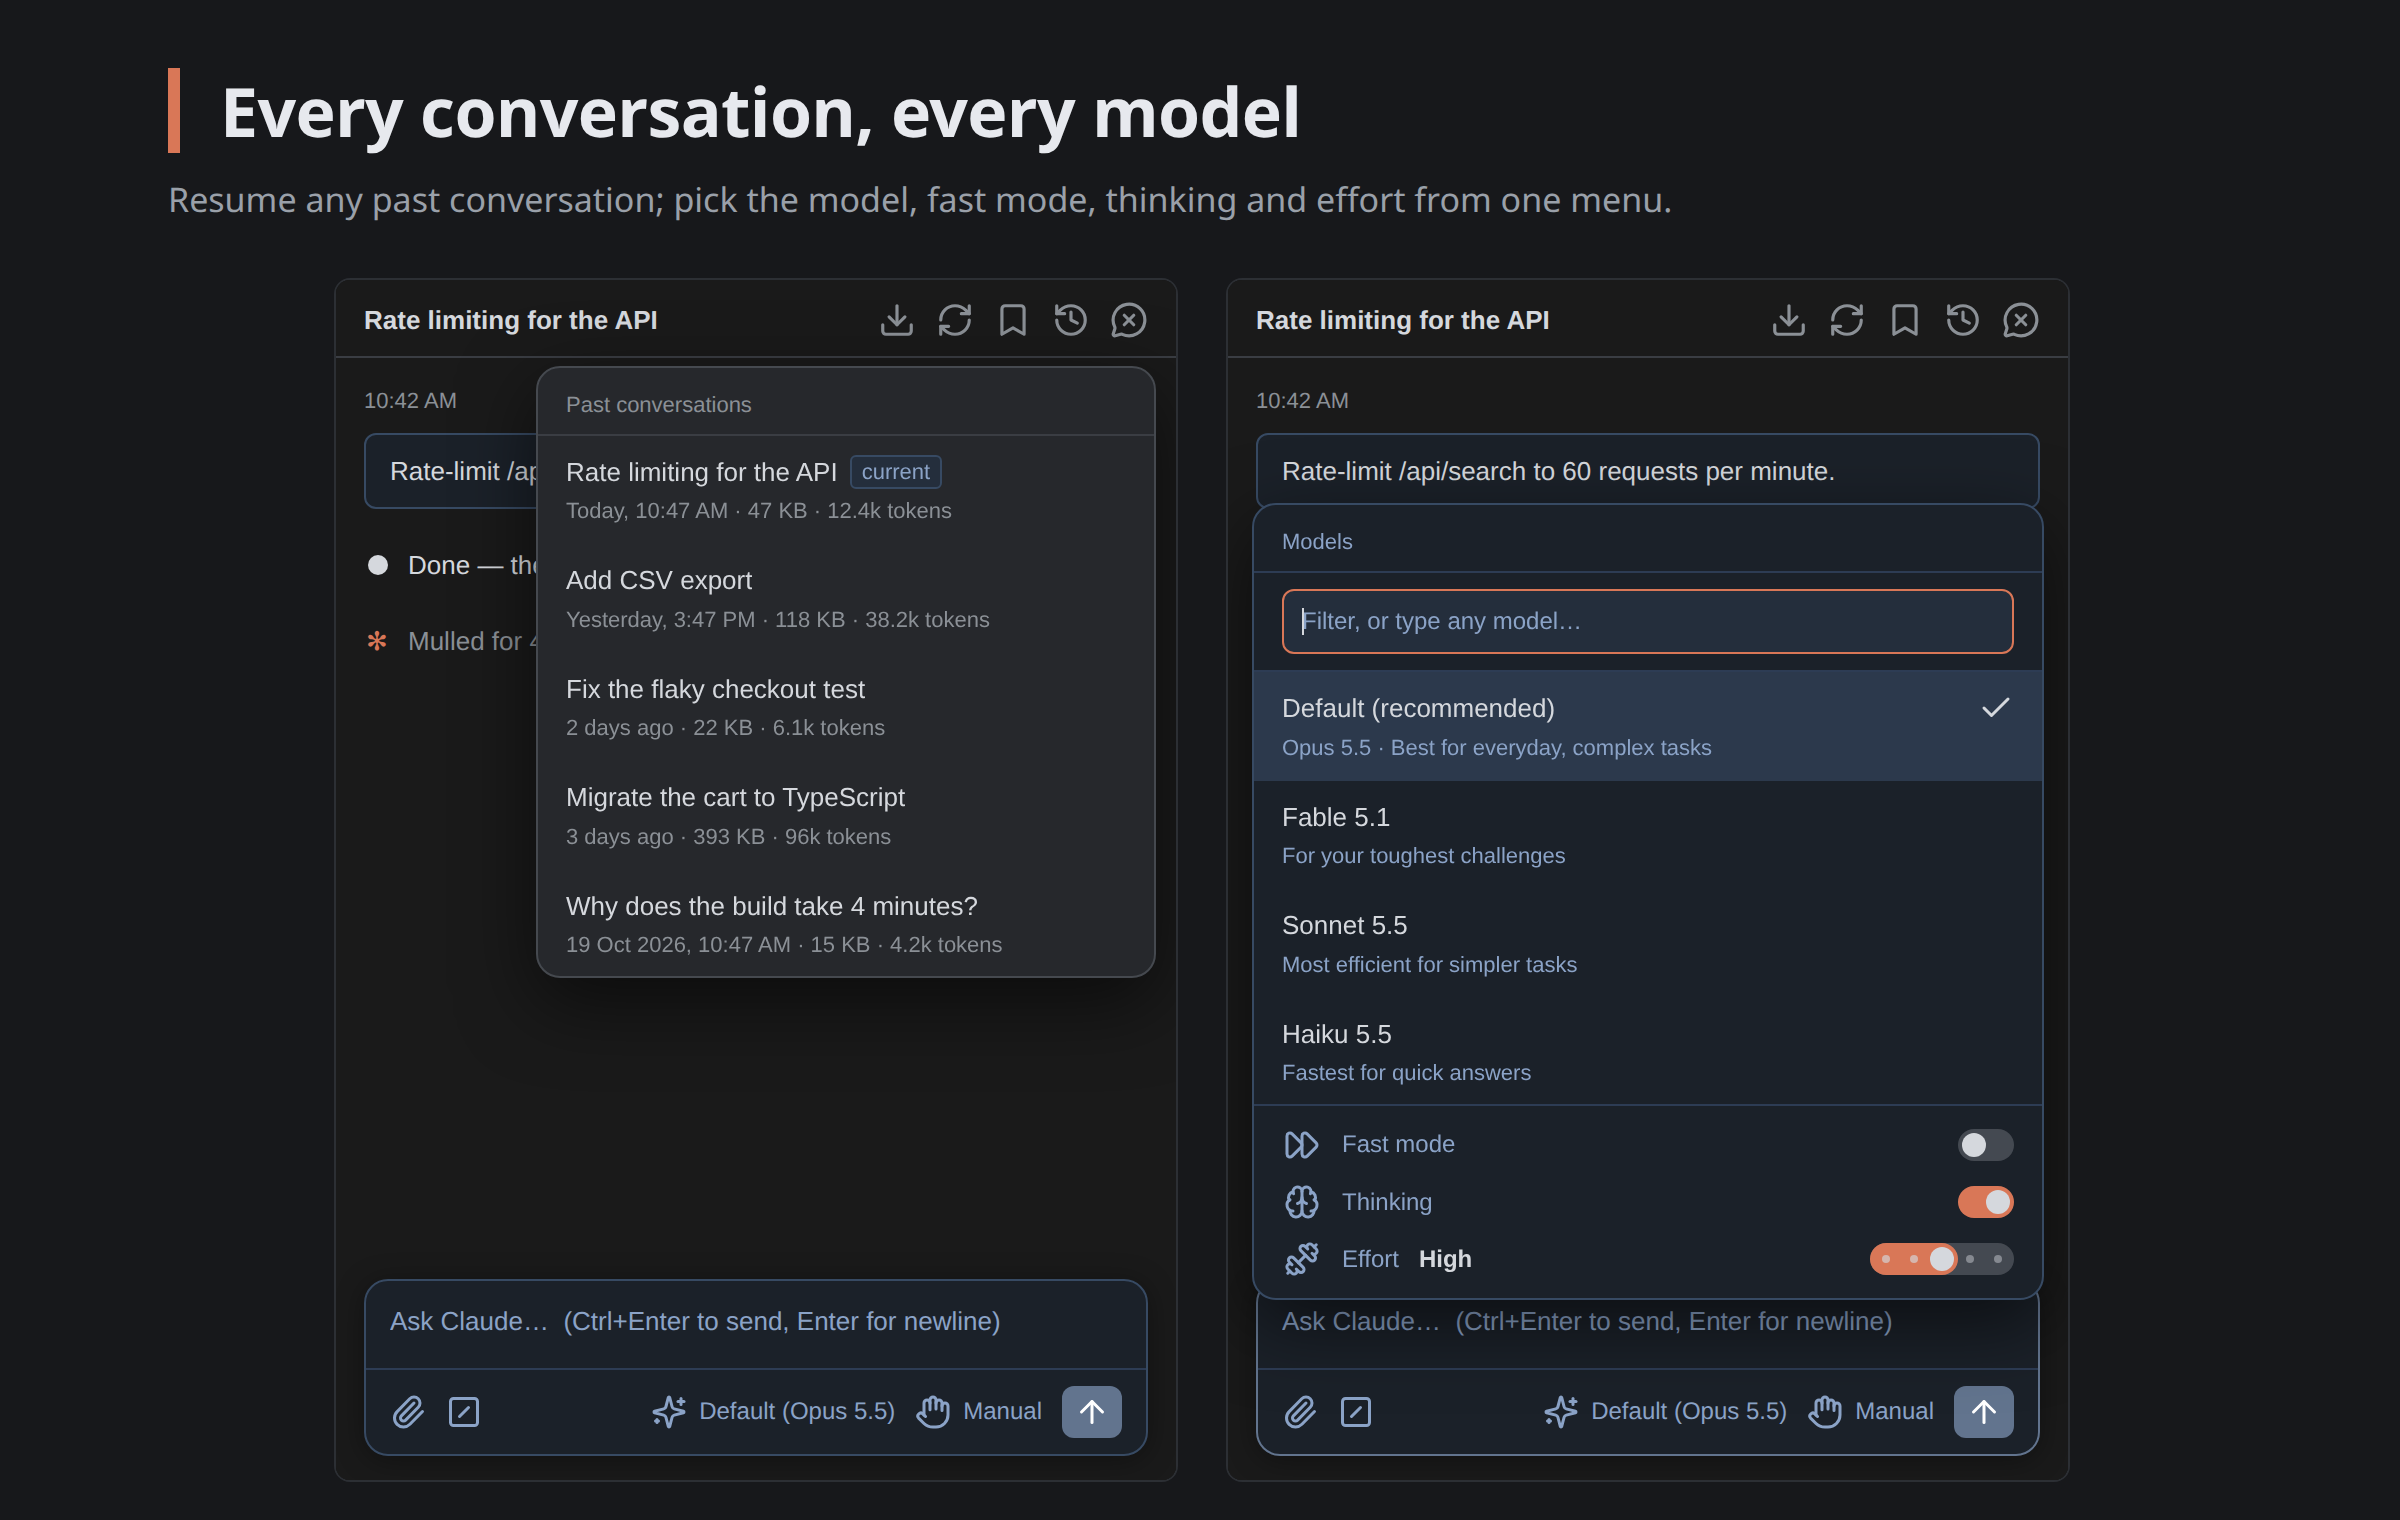
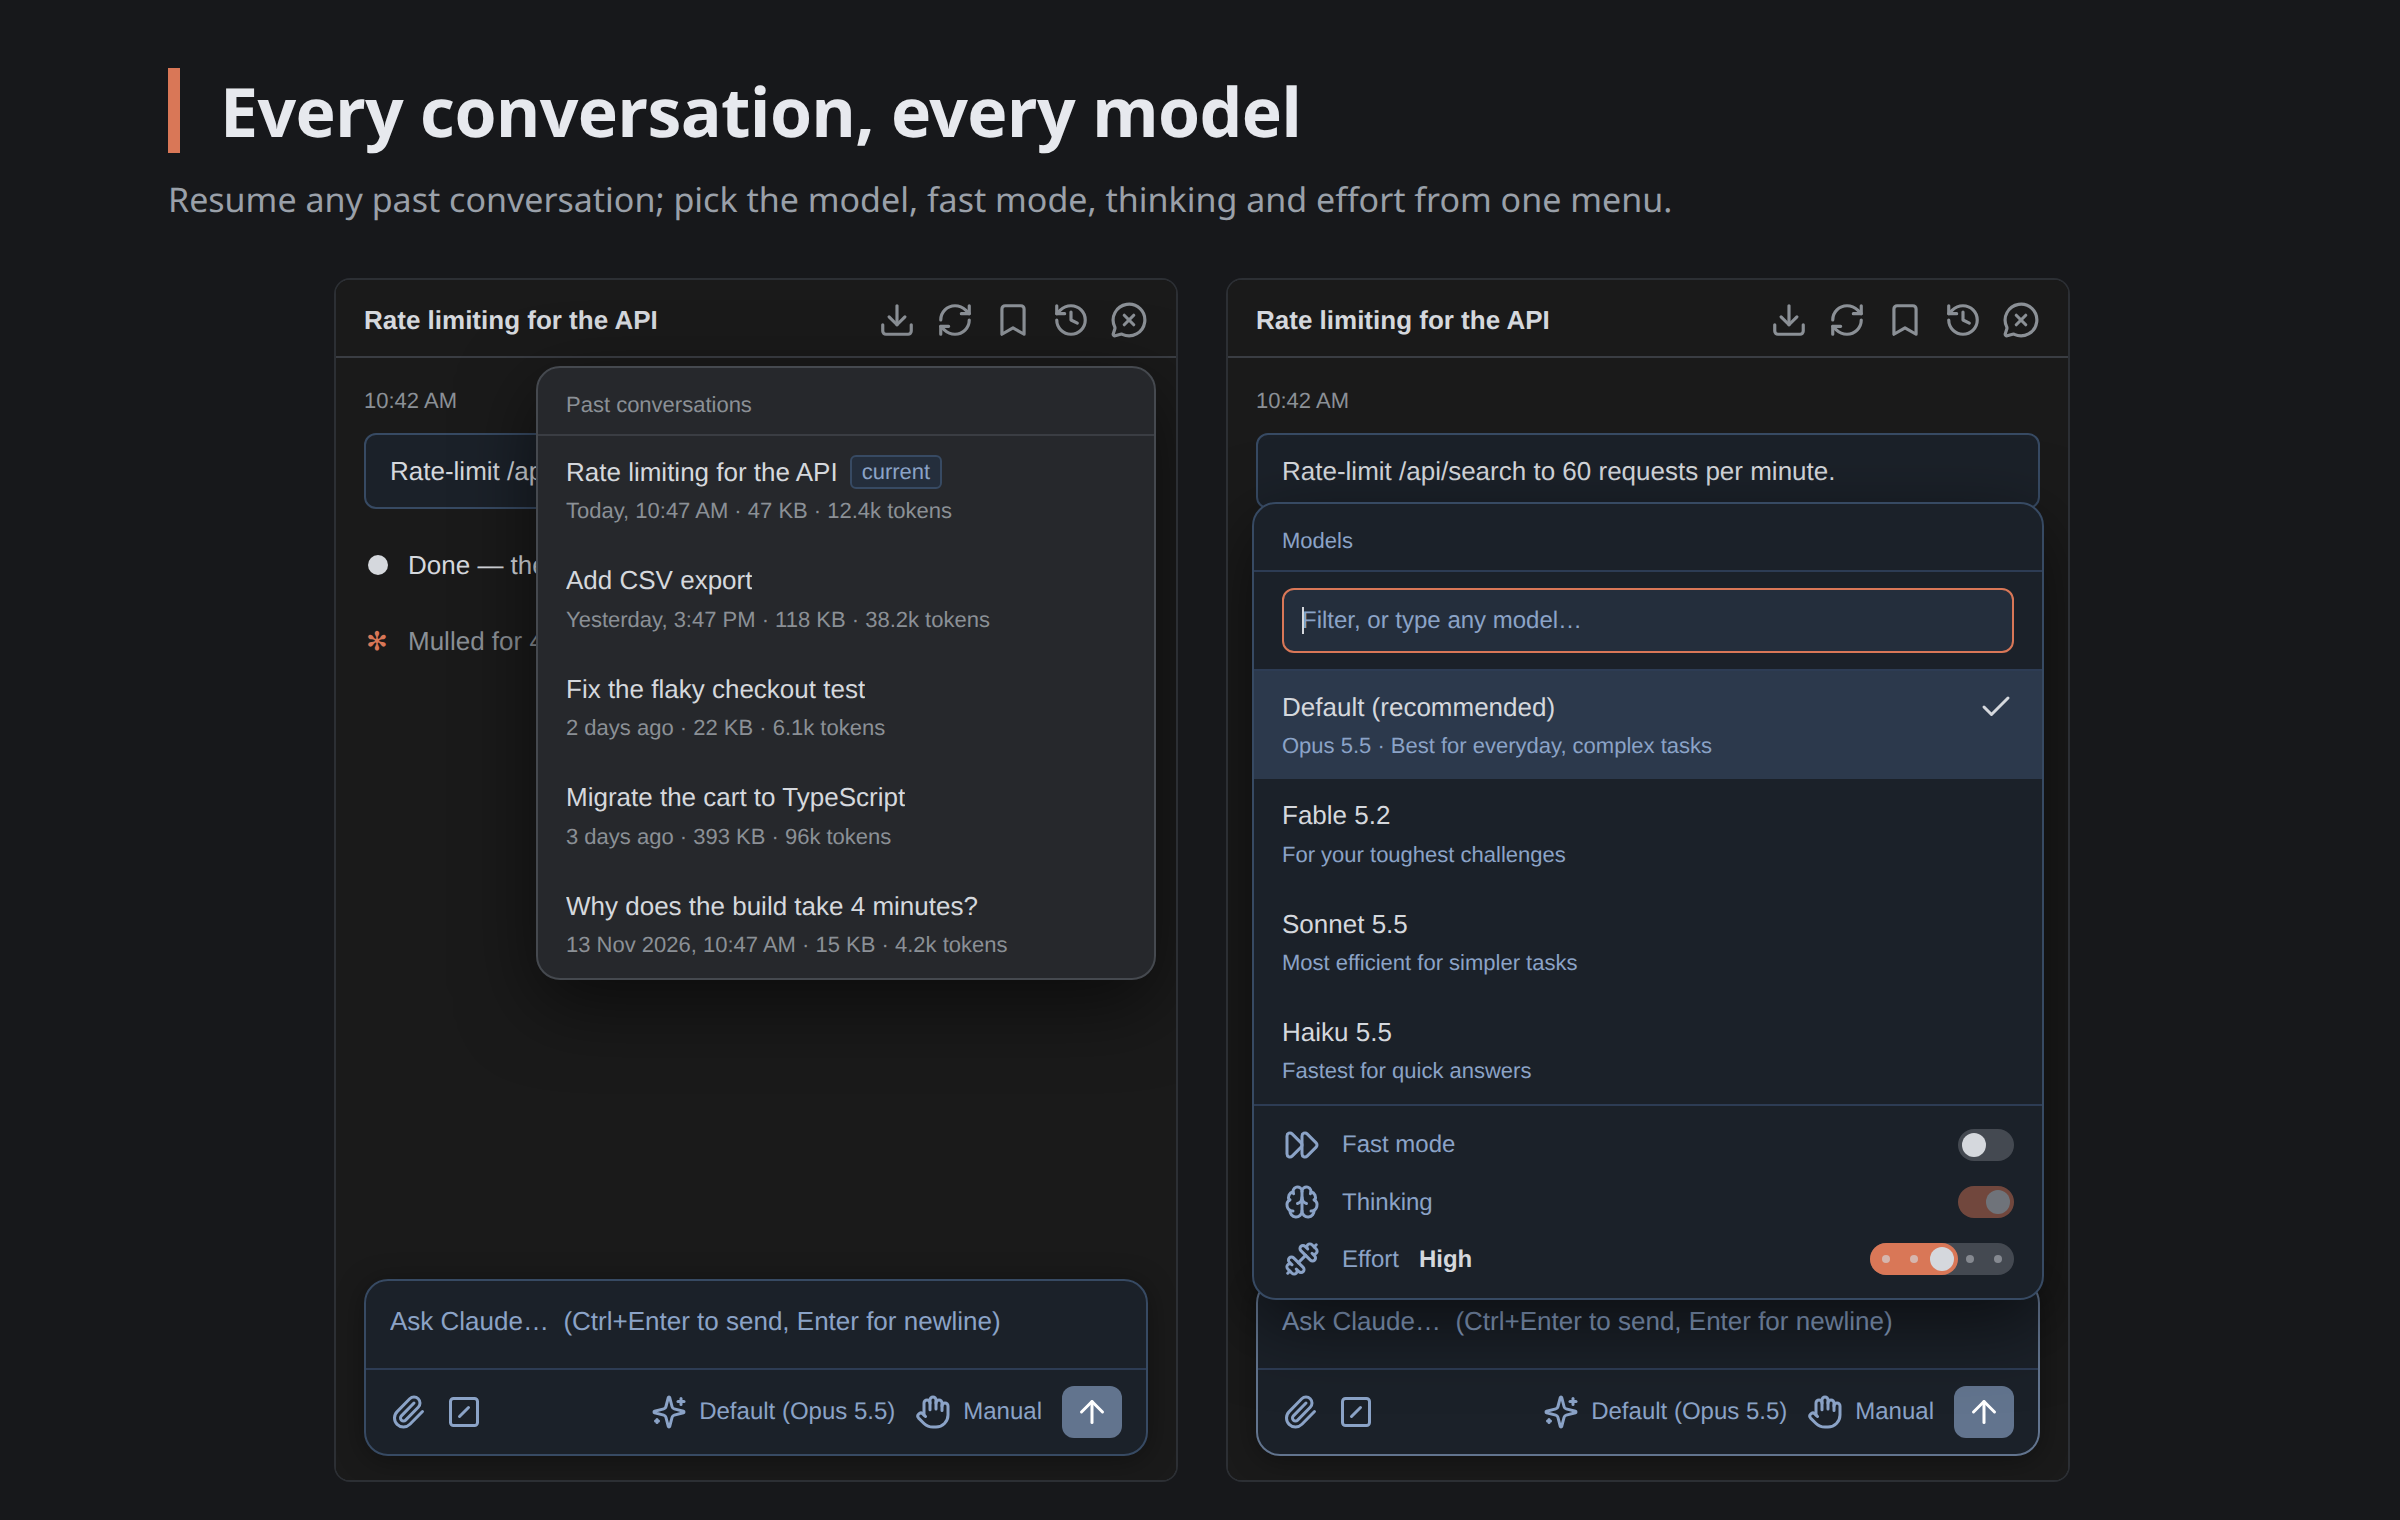
Marketplace screenshots for 0.18.0: all eight regenerated from the current renderer and two added — 09 pinned commands (chips above the composer, the / menu's filled pin toggles) with the prompt suggestion in the message box, 10 live output of a running command beside KaTeX math. tools/marketplace_s

diff --git a/tools/marketplace_shots.py b/tools/marketplace_shots.py
@@ -94,12 +94,13 @@ def panel_html() -> str:
 
 COMMON = r"""
 window.onClaudeEvent(JSON.stringify({type:'__project', root:'/home/you/shop'}));
-// the roster as CLI 2.1.293 sends it (fixture 97 rows; Default resolved as fixture 67 measured it)
+// four of the roster's rows as CLI 2.1.330 sends them (taped 2026-11-22; the Opus 5.5 row and
+// the nine pinned older versions are left out so the menu fits the panel). supportsThinkingOff:false locks the Thinking switch (9.10)
 window.onClaudeEvent(JSON.stringify({type:'__models', selected:'default', items:[
-  {value:'default', resolvedModel:'claude-opus-5-5', displayName:'Default (recommended)', description:'Opus 5.5 · Best for everyday, complex tasks', supportsEffort:true, supportsFastMode:true},
-  {value:'fable', resolvedModel:'claude-fable-5-1', displayName:'Fable 5.1', description:'For your toughest challenges', supportsEffort:true},
-  {value:'sonnet', resolvedModel:'claude-sonnet-5-5', displayName:'Sonnet 5.5', description:'Most efficient for simpler tasks', supportsEffort:true},
-  {value:'haiku', resolvedModel:'claude-haiku-5-5', displayName:'Haiku 5.5', description:'Fastest for quick answers'}]}));
+  {value:'default', resolvedModel:'claude-opus-5-5', displayName:'Default (recommended)', description:'Opus 5.5 · Best for everyday, complex tasks', supportsEffort:true, supportsFastMode:true, supportsThinkingOff:false},
+  {value:'fable', resolvedModel:'claude-fable-5-2', displayName:'Fable 5.2', description:'For your toughest challenges', supportsEffort:true, supportsFastMode:true, supportsThinkingOff:false},
+  {value:'sonnet', resolvedModel:'claude-sonnet-5-5', displayName:'Sonnet 5.5', description:'Most efficient for simpler tasks', supportsEffort:true, supportsThinkingOff:false},
+  {value:'haiku', resolvedModel:'claude-haiku-5-5', displayName:'Haiku 5.5', description:'Fastest for quick answers', supportsEffort:true, supportsThinkingOff:false}]}));
 window.onClaudeEvent(JSON.stringify({type:'__mode', mode:'default'}));
 window.onClaudeEvent(JSON.stringify({type:'__commands', items:[
   {name:'compact', description:'Free up context by summarizing the conversation so far', argumentHint:'<optional custom summarization instructions>'},
@@ -339,6 +340,59 @@ user('Run the full e2e suite.');
 working('Testing…', '1m 12s', '96');
 """
 
+# 7.13 pinned commands + 1.32 prompt suggestion. The scene's own roster: short descriptions, since a
+# chip is labelled with the command's description.
+S9_COMMON = COMMON + r"""
+window.onClaudeEvent(JSON.stringify({type:'__commands', items:[
+  {name:'compact', description:'Free up context by summarizing the conversation so far', argumentHint:'<optional custom summarization instructions>'},
+  {name:'code-review', description:'Review the current diff for bugs and cleanups', argumentHint:'[target]', aliases:['review']},
+  {name:'commit', description:'Commit it (user)'},
+  {name:'pre-tag', description:'Lint, test, diff-check (user)'},
+  {name:'deploy', description:'Deploy to… (project)', argumentHint:'<env>'},
+  {name:'standup', description:'Summarise what changed since yesterday (user)'}]}));
+window.onClaudeEvent(JSON.stringify({type:'__title', text:'Release 2.4'}));
+user('Bump the version and update the changelog.');
+tool('Edit', '/home/you/shop/package.json', true);
+tool('Edit', '/home/you/shop/CHANGELOG.md', true);
+md('Version is **2.4.0** and the changelog lists the three fixes. Nothing is committed yet.');
+done(17000, 420);
+idle();
+window.onClaudeEvent(JSON.stringify({type:'__cmdPins', pins:['commit','pre-tag','deploy']}));
+"""
+
+S9_LEFT = S9_COMMON + r"""
+window.onClaudeEvent(JSON.stringify({type:'prompt_suggestion', suggestion:'commit this and tag v2.4.0', uuid:'ps1', session_id:'s1'}));
+"""
+
+S9_RIGHT = S9_COMMON + r"""
+input.value = '/';
+tg('slashMenu');
+"""
+
+# 1.33 live output of a running command, through the real road: task_started arms the poll, the
+# __taskOutput answer paints the row.
+S10_LEFT = COMMON + r"""
+window.onClaudeEvent(JSON.stringify({type:'__title', text:'Staging migration'}));
+user('Run the pending migrations on staging.');
+{ const tb = track(toolLine('Bash')); tb.classList.add('run');
+  tb.querySelector('.t-desc').textContent = 'Migrate the staging database';
+  const io = ioBox([['IN', 'npm run migrate -- --env staging']]); tb.after(io);
+  toolsById['tu-mig'] = { el: tb, name: 'Bash', io: io };
+  startLiveOut({ task_id: 'tk-mig', tool_use_id: 'tu-mig', is_backgrounded: false });
+  window.onClaudeEvent(JSON.stringify({type:'__taskOutput', id:'tk-mig', truncated:false, total_bytes:0, output:
+    'Using environment: staging\n[1/6] add_orders_index ... done (0.8s)\n[2/6] split_customer_name ... done (2.1s)\n[3/6] backfill_tax_region ... 41%\n[3/6] backfill_tax_region ... 78%\n[3/6] backfill_tax_region ... done (9.4s)\n[4/6] drop_legacy_carts ... done (0.3s)\n[5/6] add_export_jobs ...'})); }
+working('Migrating…', '24s', '118'); setContext(41000);
+"""
+
+# 1.34 math, drawn by the vendored KaTeX.
+S10_RIGHT = COMMON + r"""
+window.onClaudeEvent(JSON.stringify({type:'__title', text:'Retry policy'}));
+user('How long can the retries take in total?');
+md('Retry $n$ waits $d_n = \\min(c,\\ b \\cdot 2^{n})$, so without the cap $k$ retries add up to\n\n$$\\sum_{n=0}^{k-1} b \\cdot 2^{n} = b\\,(2^{k} - 1)$$\n\nWith $b = 0.5$ s and $k = 5$ that is **15.5 s** — under the 30 s gateway timeout, so the cap $c$ never applies.');
+done(8000, 190);
+idle(); setContext(23000);
+"""
+
 SCENES = [
     ("01-conversation", "Claude Code, native in your IDE",
      "The official claude CLI streaming into a JetBrains tool window — thinking, tools, todos, sub-agents, live progress.",
@@ -364,6 +418,12 @@ SCENES = [
     ("08-background", "Long jobs, out of the way",
      "Watch a background task's output live, or send a slow command to the background mid-run.",
      [S8_LEFT, S8_RIGHT]),
+    ("09-pinned-and-suggested", "The next step, one click away",
+     "Pin a command in the / menu and it sits above the composer; Claude Code's suggested next prompt waits in the box.",
+     [S9_LEFT, S9_RIGHT]),
+    ("10-live-output-math", "See it as it happens",
+     "A running command shows what it has printed so far; math in a reply is drawn as formulas.",
+     [S10_LEFT, S10_RIGHT]),
 ]
 
 
